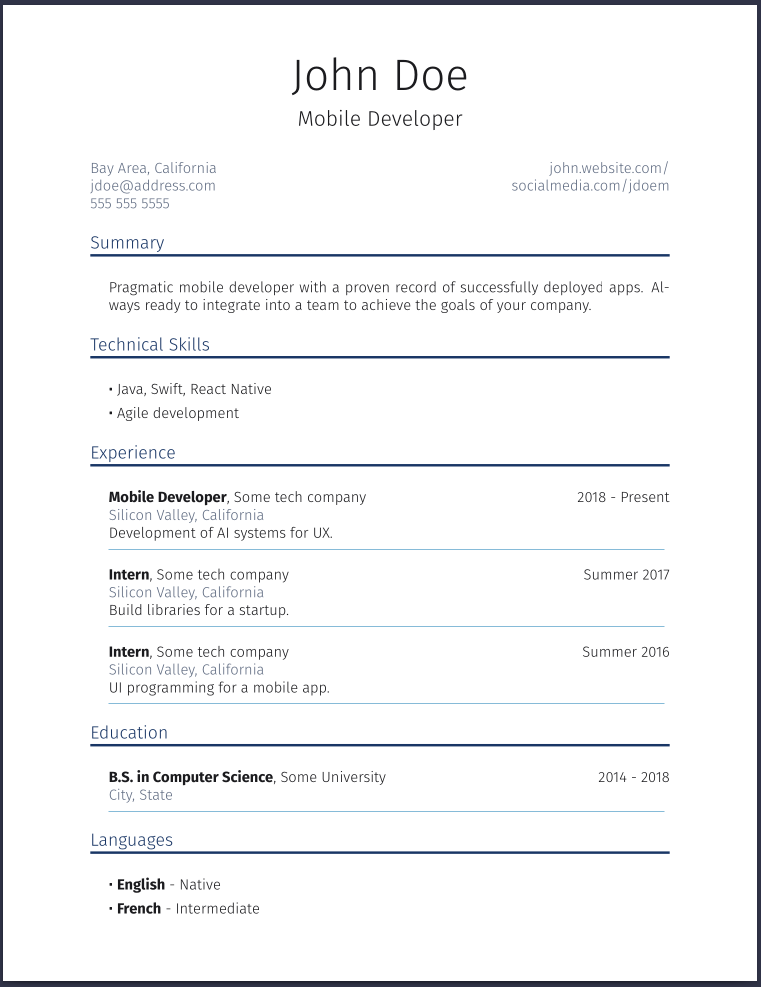
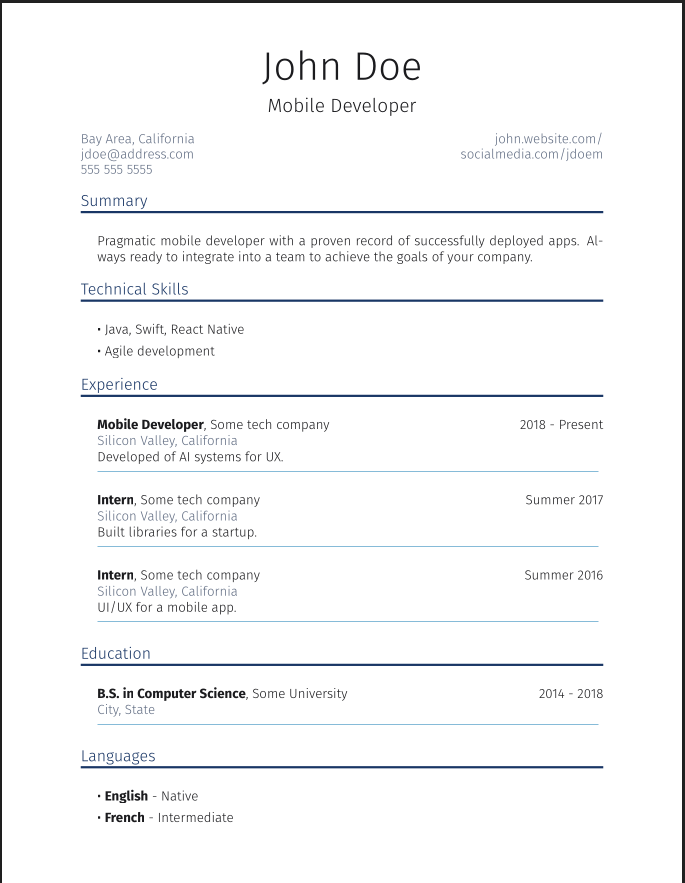
Fixed some typos

diff --git a/examples/resume.tex b/examples/resume.tex
@@ -90,8 +90,9 @@
 
 % Personal information entry.
 % Takes a pair of facts about you as input. They can be
-% your website, your social media, your email, and so on.
+% your website, your social media, your email,
 % They get put in one line, opposite to each other.
+% and so on.
 \newcommand{\info}[2]{
     {
         \color{secondarytext}
@@ -123,7 +124,7 @@
         \rule{0.96\textwidth}{0.5pt}
     }
 
-    \vspace{10pt}
+    \vspace{15pt}
 }
 
 % Education entry.
@@ -143,7 +144,7 @@
         \rule{0.96\textwidth}{0.5pt}
     }
 
-    \vspace{10pt}
+    \vspace{15pt}
 }
 
 % Project entry.
@@ -162,7 +163,7 @@
         \rule{0.96\textwidth}{0.5pt}
     }
 
-    \vspace{10pt}
+    \vspace{15pt}
 }
 
 % Language entry.
@@ -217,26 +218,26 @@
 \info{jdoe@address.com}{socialmedia.com/jdoem}
 \info{555 555 5555}{}
 
-\vspace{15pt}
+\vspace{12pt}
 \resumesection{Summary}
 
 \hangindent=15pt
 Pragmatic mobile developer with a proven record of successfully deployed apps. Always ready to integrate into a team to achieve the goals of your company.
 
-\vspace{15pt}
+\vspace{12pt}
 \resumesection{Technical Skills}
 
 \closerlist{Java, Swift, React Native}
 \closerlist{Agile development}
 
-\vspace{10pt}
+\vspace{8pt}
 \resumesection{Experience}
 
-\job{2018 - Present}{Mobile Developer}{Some tech company}{Silicon Valley, California}{\hangindent=15pt Development of AI systems for UX.}
+\job{2018 - Present}{Mobile Developer}{Some tech company}{Silicon Valley, California}{\hangindent=15pt Developed of AI systems for UX.}
 
-\job{Summer 2017}{Intern}{Some tech company}{Silicon Valley, California}{\hangindent=15pt Build libraries for a startup.}
+\job{Summer 2017}{Intern}{Some tech company}{Silicon Valley, California}{\hangindent=15pt Built libraries for a startup.}
 
-\job{Summer 2016}{Intern}{Some tech company}{Silicon Valley, California}{\hangindent=15pt UI programming for a mobile app.}
+\job{Summer 2016}{Intern}{Some tech company}{Silicon Valley, California}{\hangindent=15pt UI/UX for a mobile app.}
 
 \resumesection{Education}
 

diff --git a/template.tex b/template.tex
@@ -92,7 +92,7 @@
 % Takes a pair of facts about you as input. They can be
 % your website, your social media, your email,
 % They get put in one line, opposite to each other.
-and so on.
+% and so on.
 \newcommand{\info}[2]{
     {
         \color{secondarytext}
